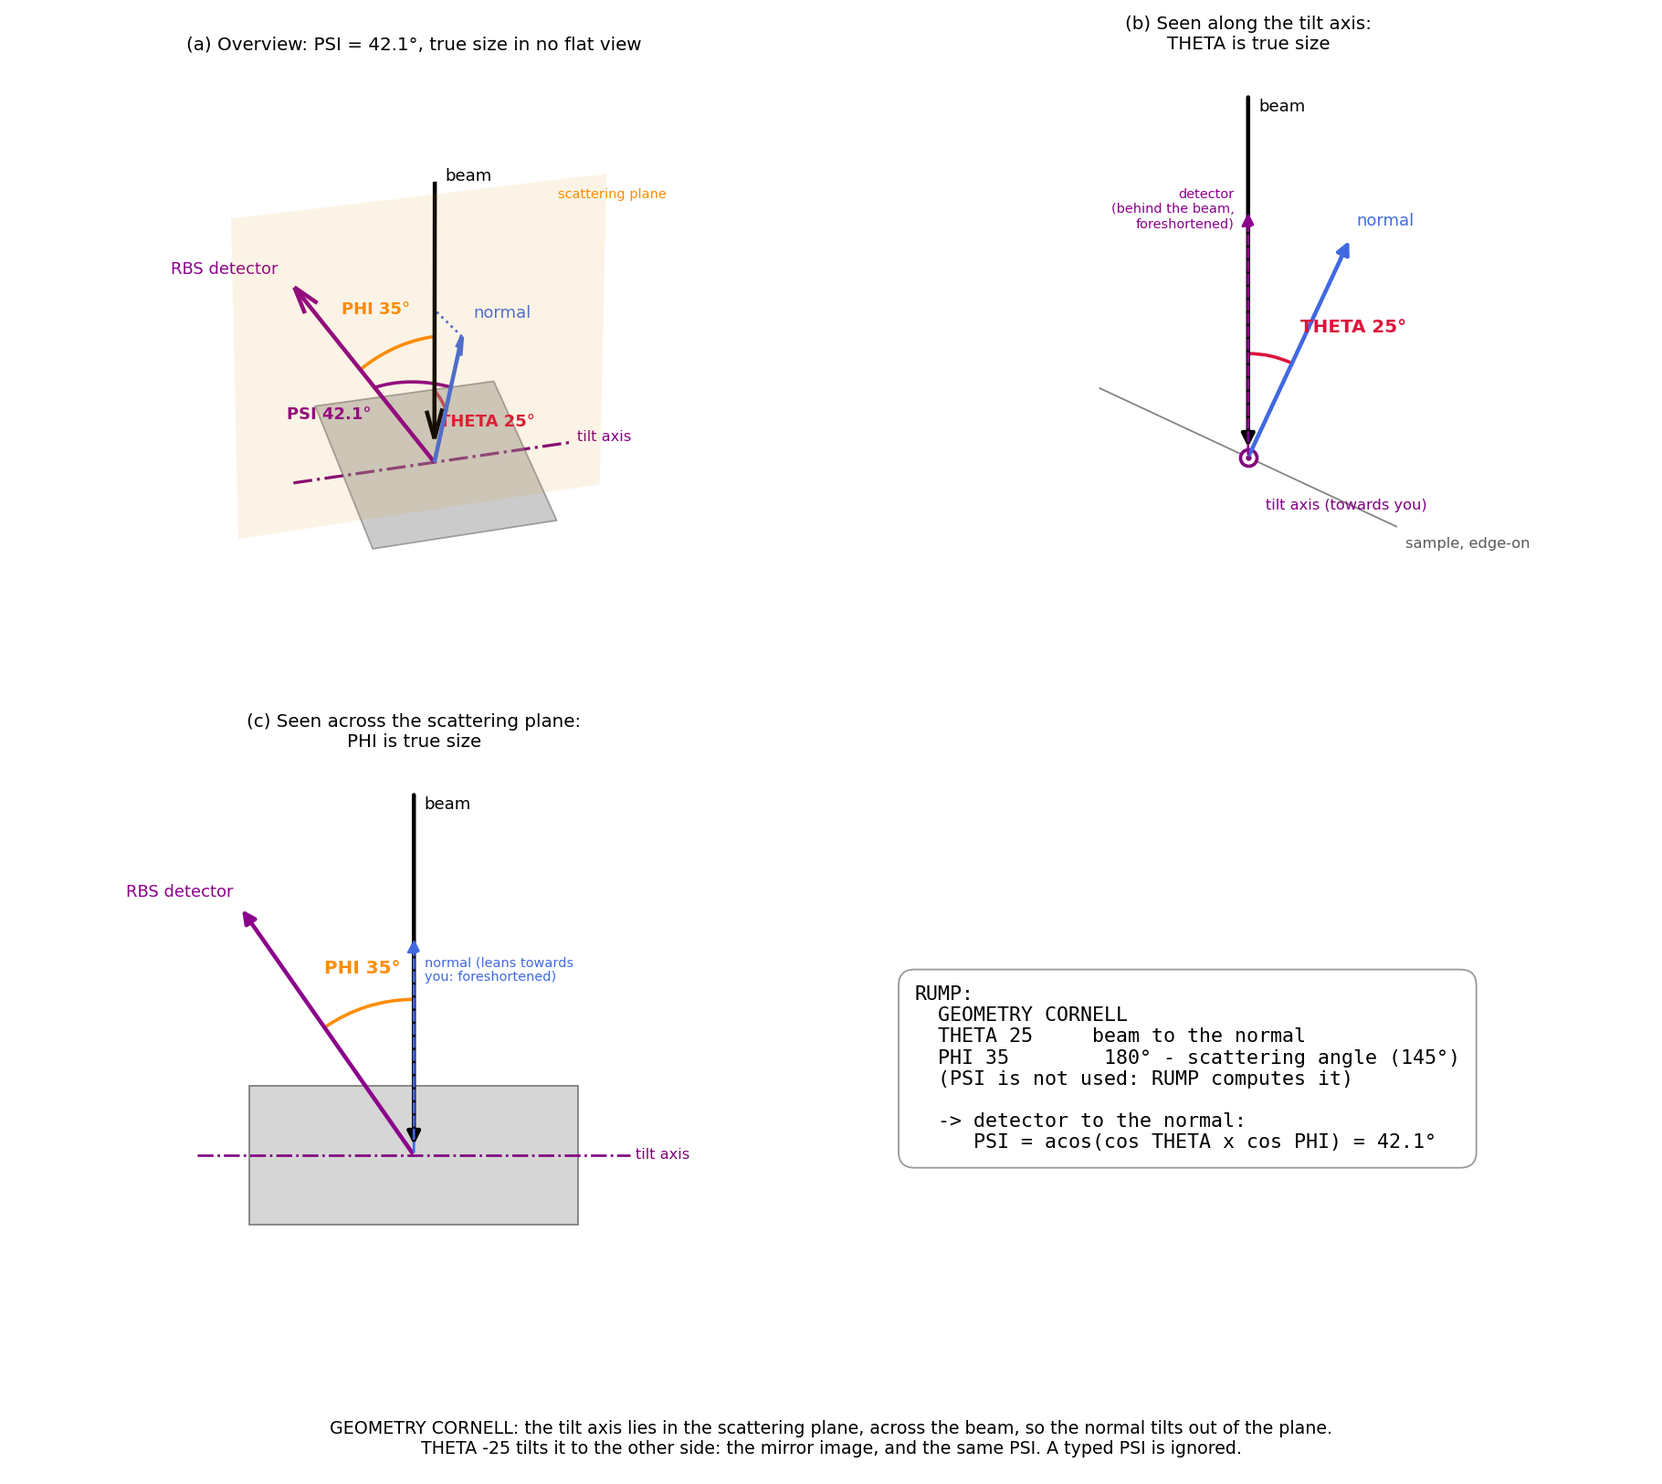
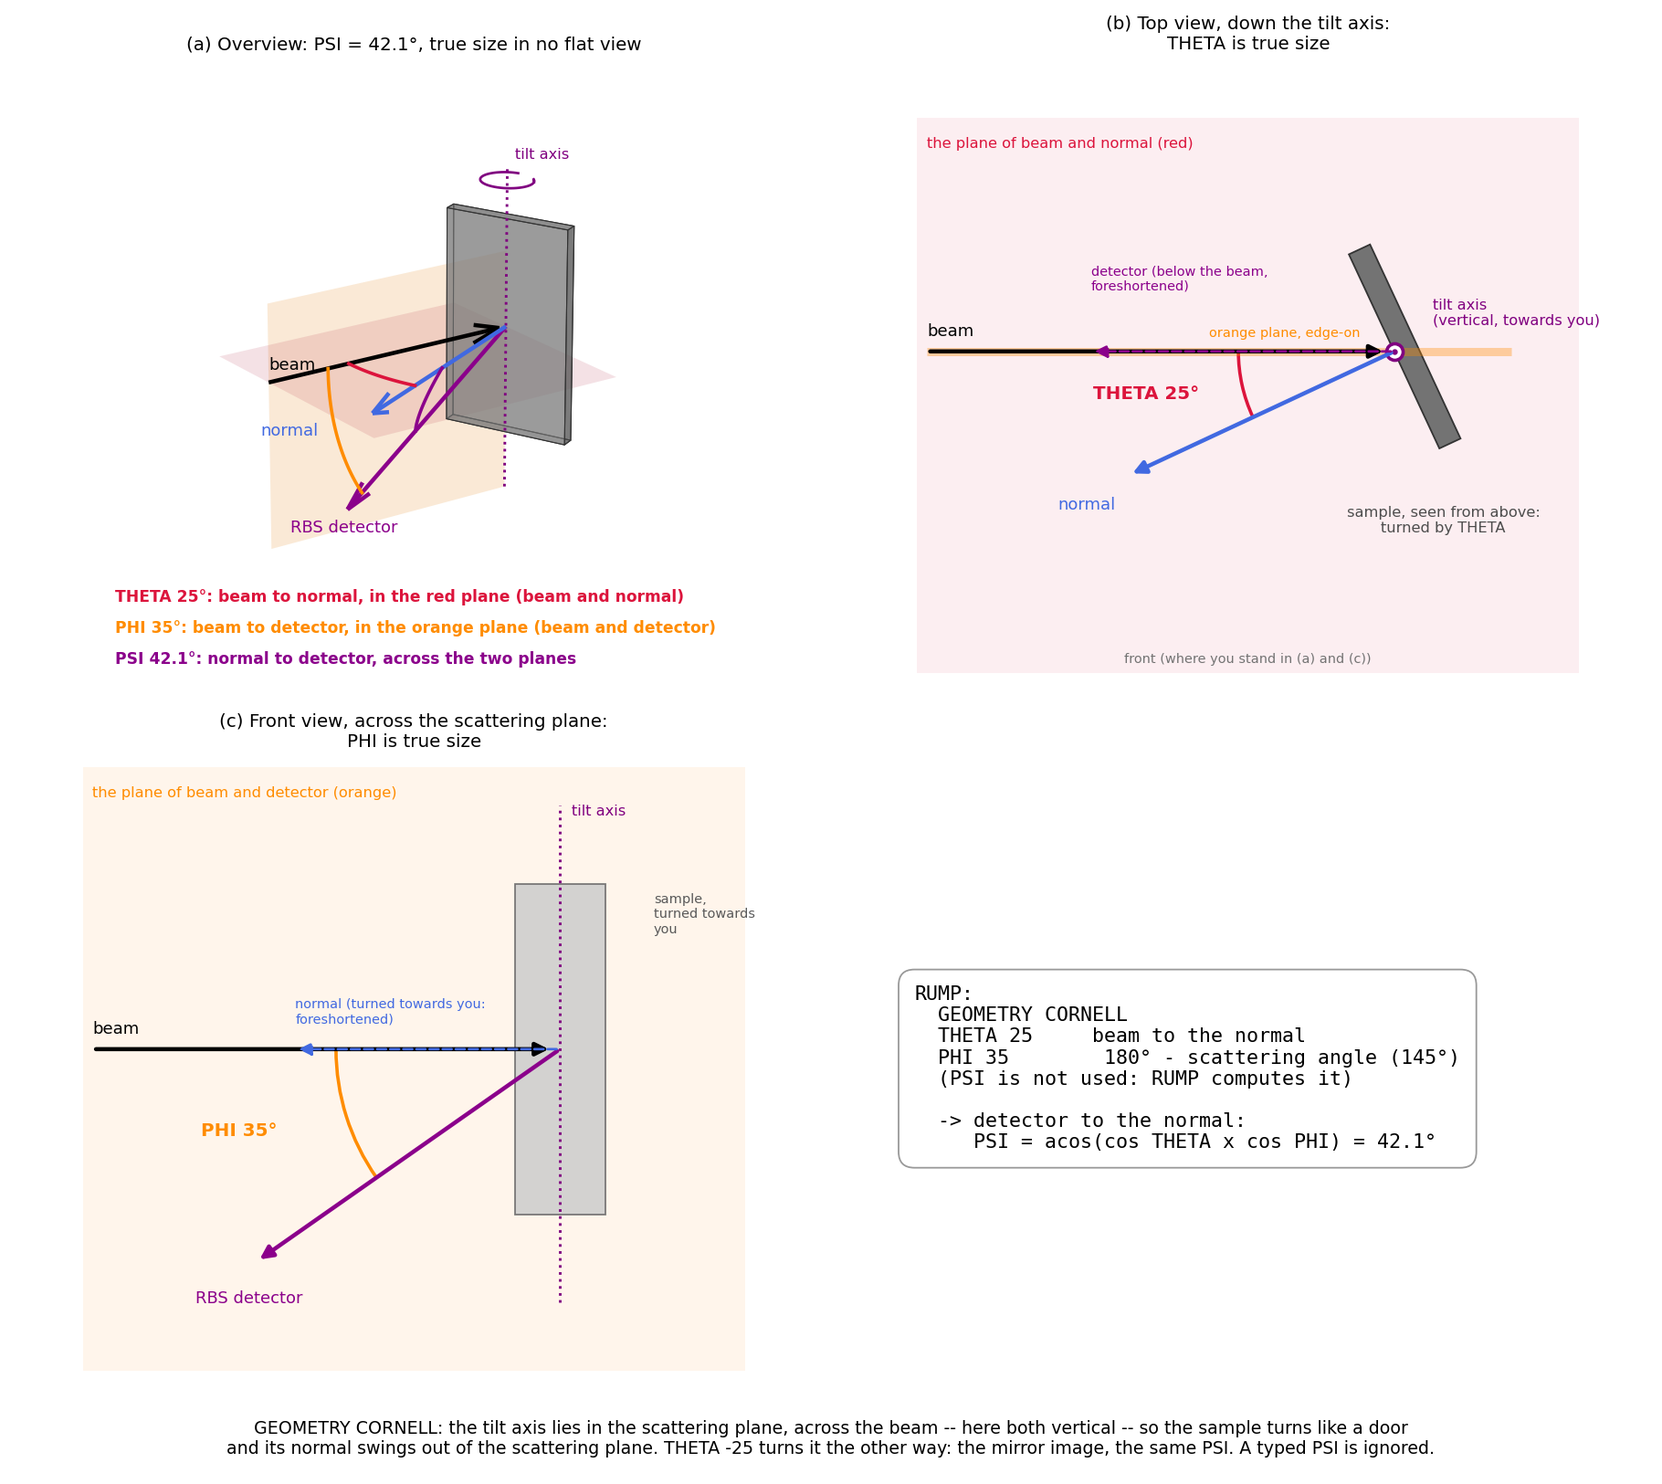
Manual: the Cornell geometry redrawn as in a chamber
The Cornell figure now shows the geometry as one sees it in a chamber:
the beam horizontal, the scattering plane and the tilt axis vertical,
the sample a slab turning about that axis like a door. The 3D overview
colours the plane of beam and normal red (THETA) and the plane of beam
and detector orange (PHI), with PSI across the two and the angles named
in matching captions; the top view, down the tilt axis, shows THETA true
size, the front view PHI; the RUMP commands complete it. The page text
follows the figure.

tools/geometry_figures.py draws the new figure; the old Cornell drawing
and its helpers are gone.

diff --git a/tools/geometry_figures.py b/tools/geometry_figures.py
@@ -7,9 +7,11 @@ writes, into docs/assets/:
 - geometry-ibm.png: GEOMETRY IBM seen along the tilt axis -- beam, detector
   and normal all lie in the scattering plane, so a flat drawing shows every
   angle true.
-- geometry-cornell.png: GEOMETRY CORNELL, whose normal leaves the scattering
-  plane: a 3D overview, the views in which THETA and PHI are true size, and
-  the RUMP commands.
+- geometry-cornell.png: GEOMETRY CORNELL as in a chamber -- beam horizontal,
+  scattering plane and tilt axis vertical, the sample turning like a door: a
+  3D overview with the beam-normal plane (red) and the beam-detector plane
+  (orange), the top view (THETA true size), the front view (PHI true size)
+  and the RUMP commands.
 
 The exit angles in the command boxes are computed by pyRUMP itself
 (``pyrump.model.geometry.Geometry``), so the figures can't drift from the
@@ -175,21 +177,33 @@ def arrow3d(ax, start, vec, color, lw=2.5, ls="-"):
     ax.quiver(*start, *vec, color=color, lw=lw, arrow_length_ratio=0.12, linestyle=ls)
 
 
-def plate(ax, normal, size=0.75):
-    n = unit(normal)
-    u = unit(np.cross(n, [0, 1, 0]) if abs(n[1]) < 0.9 else np.cross(n, [1, 0, 0]))
-    v = np.cross(n, u)
-    corners = [s * u * size + t * v * size for s, t in ((-1, -1), (1, -1), (1, 1), (-1, 1))]
-    ax.add_collection3d(Poly3DCollection([corners], facecolor="0.55", alpha=0.45, edgecolor="0.3"))
+# -- CORNELL: a 3D overview, the top and front views, the commands ------------
+
+def arrow2d(ax, end, color, lw=2.5, ls="-", start=(0, 0)):
+    ax.annotate("", xy=end, xytext=start,
+                arrowprops={"arrowstyle": "-|>", "color": color, "lw": lw, "ls": ls,
+                            "mutation_scale": 16})
 
 
-# -- CORNELL: a 3D overview and two flat views --------------------------------
+def arc2d(ax, a, b, radius, color, label, at, ha="center"):
+    """The short arc between ``a`` and ``b`` (never the way round)."""
+    t1, t2 = (math.degrees(math.atan2(v[1], v[0])) for v in (a, b))
+    if t2 < t1:
+        t1, t2 = t2, t1
+    if t2 - t1 > 180:
+        t1, t2 = t2, t1 + 360
+    ax.add_patch(Arc((0, 0), 2 * radius, 2 * radius, theta1=t1, theta2=t2, color=color, lw=2))
+    ax.text(*at, label, color=color, fontsize=11, fontweight="bold", ha=ha, va="center")
 
-# x: across the beam, in the scattering plane (the tilt axis); y: out of the
-# scattering plane; z: back towards the beam's source.
-S = np.array([0, 0, 1.0])
-D = unit([-math.sin(math.radians(PHI)), 0, math.cos(math.radians(PHI))])
-N = np.array([0, -math.sin(math.radians(THETA)), math.cos(math.radians(THETA))])
+
+# x: the beam's direction of travel (left to right); y: into the page;
+# z: up. The scattering plane is the vertical x-z plane (the page); the
+# tilt axis is z, vertical, in that plane and across the beam.
+t, f = math.radians(THETA), math.radians(PHI)
+S = np.array([-1.0, 0.0, 0.0])                     # back towards the source
+D = np.array([-math.cos(f), 0.0, -math.sin(f)])    # the RBS detector: back and down
+N = np.array([-math.cos(t), -math.sin(t), 0.0])    # turned about z, towards the viewer
+AXIS = np.array([0.0, 0.0, 1.0])
 PSI = angle(N, D)
 
 BLUE, MAGENTA, RED, ORANGE, PURPLE = "royalblue", "darkmagenta", "crimson", "darkorange", "purple"
@@ -202,111 +216,157 @@ def rump_psi():
     return math.degrees(math.acos(1.0 / g.sec_out))
 
 
-# -- flat views ---------------------------------------------------------------
+# -- the overview --------------------------------------------------------------
 
 
-def arrow2d(ax, end, color, lw=2.5, ls="-", start=(0, 0)):
-    ax.annotate("", xy=end, xytext=start,
-                arrowprops={"arrowstyle": "-|>", "color": color, "lw": lw, "ls": ls,
-                            "mutation_scale": 16})
+def slab(ax, normal, half_width=0.55, half_height=0.85, thickness=0.12):
+    """The sample: a plate whose front face, through the origin, faces
+    ``normal``; the material lies behind it."""
+    across = unit(np.cross(AXIS, normal))         # horizontal, in the face
+    front = [a * half_width * across + b * half_height * AXIS
+             for a, b in ((-1, -1), (1, -1), (1, 1), (-1, 1))]
+    back = [c - thickness * normal for c in front]
+    faces = [front, back] + [[front[i], front[(i + 1) % 4], back[(i + 1) % 4], back[i]]
+                             for i in range(4)]
+    shades = ["0.55", "0.35", "0.25", "0.3", "0.45", "0.3"]
+    ax.add_collection3d(Poly3DCollection(faces, facecolors=shades, edgecolor="0.2",
+                                         linewidths=0.6, alpha=0.5, zorder=1))
 
 
-def arc2d(ax, a, b, radius, color, label, at, ha="center"):
-    p1, p2 = (math.degrees(math.atan2(v[1], v[0])) for v in (a, b))
-    t1, t2 = sorted((p1, p2))
-    ax.add_patch(Arc((0, 0), 2 * radius, 2 * radius, theta1=t1, theta2=t2, color=color, lw=2))
-    ax.text(*at, label, color=color, fontsize=11, fontweight="bold", ha=ha, va="center")
+def rotation_mark(ax, height=1.15, radius=0.22):
+    """An ellipse round the top of the tilt axis, with an arrowhead."""
+    a = np.linspace(0.15 * np.pi, 1.85 * np.pi, 60)
+    ring = np.array([radius * np.cos(a), radius * np.sin(a), np.full_like(a, height)])
+    ax.plot(*ring, color=PURPLE, lw=1.5)
+    end, before = ring[:, -1], ring[:, -4]
+    ax.quiver(*before, *(end - before), color=PURPLE, lw=1.5, arrow_length_ratio=1.0)
+
+
+def overview(ax):
+    # Arrows and arcs are always drawn over the sample: matplotlib's own
+    # depth sorting would hide them behind it.
+    ax.computed_zorder = False
+    # The beam-detector plane (the vertical scattering plane, where PHI
+    # lies) and the beam-normal plane (horizontal here, where THETA lies).
+    xs, zs = np.meshgrid([-2.4, 0.0], [-1.3, 0.6])
+    ax.plot_surface(xs, np.zeros_like(xs), zs, color=ORANGE, alpha=0.16, lw=0, zorder=0)
+    xs, ys = np.meshgrid([-2.4, 0.0], [-1.4, 0.7])
+    ax.plot_surface(xs, ys, np.zeros_like(xs), color=RED, alpha=0.12, lw=0, zorder=0)
+
+    slab(ax, N)
+    ax.plot(*np.array([[0, 0, -1.3], [0, 0, 1.25]]).T, color=PURPLE, ls=":", lw=1.6)
+    rotation_mark(ax)
+    ax.text(0.08, 0, 1.3, "tilt axis", color=PURPLE, fontsize=9)
+
+    arrow3d(ax, [-2.4, 0, 0], [2.33, 0, 0], "black")
+    ax.text(-2.4, 0, 0.1, "beam", fontsize=10)
+    arrow3d(ax, [0, 0, 0], 2.0 * D, MAGENTA)
+    ax.text(*(2.05 * D + [0, 0, -0.15]), "RBS detector", color=MAGENTA, fontsize=10,
+            ha="center")
+    length = 0.8 * 2.9
+    arrow3d(ax, [0, 0, 0], length * N, BLUE)
+    ax.text(*(3.1 * N + [-0.15, -0.15, 0.15]), "normal", color=BLUE, fontsize=10, ha="right")
+
+    arc3d(ax, N, S, 0.85 * 2 * 0.95, RED, "")
+    arc3d(ax, S, D, 1.3 * 1.4, ORANGE, "")
+    arc3d(ax, N, D, 1.15, MAGENTA, "")
+    captions = [
+        (RED, f"THETA {THETA:g}°: beam to normal, in the red plane (beam and normal)"),
+        (ORANGE, f"PHI {PHI:g}°: beam to detector, in the orange plane (beam and detector)"),
+        (MAGENTA, f"PSI {PSI:.1f}°: normal to detector, across the two planes"),
+    ]
+    for i, (color, text) in enumerate(captions):
+        ax.text2D(0.02, 0.13 - 0.05 * i, text, transform=ax.transAxes, color=color,
+                  fontsize=9.5, fontweight="bold")
+
+    ax.set_title(f"(a) Overview: PSI = {PSI:.1f}°, true size in no flat view", fontsize=11)
+    ax.set_xlim(-2.8, 0.6)
+    ax.set_ylim(-1.6, 1.0)
+    ax.set_zlim(-1.3, 1.3)
+    ax.set_box_aspect((3.0, 2.5, 2.6))
+    ax.view_init(elev=20, azim=-125)
+    ax.set_axis_off()
+
+
+# -- the flat views -------------------------------------------------------------
 
 
 def flat(ax, title):
     ax.set_title(title, fontsize=11)
-    ax.set_xlim(-1.9, 1.9)
-    ax.set_ylim(-1.3, 2.3)
+    ax.set_xlim(-2.5, 1.0)
+    ax.set_ylim(-1.7, 1.5)
     ax.set_aspect("equal")
     ax.set_axis_off()
 
 
-def sample_outline(ax, project):
-    """The sample plate, projected."""
-    u = np.array([1.0, 0, 0])               # the tilt axis stays in the plate
-    v = np.cross(N, u)
-    corners = [project(a * 0.95 * u + b * 0.95 * v) for a, b in ((-1, -1), (1, -1), (1, 1), (-1, 1))]
-    ax.add_patch(Polygon(corners, closed=True, facecolor="0.8", edgecolor="0.4", alpha=0.8))
+def beam2d(ax):
+    arrow2d(ax, (-0.04, 0.0), "black", start=(-2.4, 0.0))
+    ax.text(-2.4, 0.08, "beam", fontsize=10)
 
 
-def view_along_tilt_axis(ax):
-    """Looking along x: the plane of beam and normal. THETA is true here."""
+def top_view(ax):
+    """Looking down the vertical tilt axis: THETA is true size."""
+    ax.add_patch(Polygon([(-2.45, -1.65), (0.95, -1.65), (0.95, 1.2), (-2.45, 1.2)],
+                         facecolor=RED, alpha=0.07, edgecolor="none"))
+    ax.text(-2.4, 1.1, "the plane of beam and normal (red)", color=RED, fontsize=9, va="top")
+    ax.text(-0.75, -1.6, "front (where you stand in (a) and (c))", color="0.45", fontsize=8,
+            ha="center")
+
     def p(v):
-        return np.array([-v[1], v[2]])     # right = out of the scattering plane
+        return np.array([v[0], v[1]])      # down the page = towards the front
 
-    sample_outline(ax, p)
-    arrow2d(ax, (0, 0.04), "black", start=(0, 2.1))
-    ax.text(0.06, 2.0, "beam", fontsize=10)
-    arrow2d(ax, 1.4 * p(N), BLUE)
-    ax.text(*(1.48 * p(N)), "normal", color=BLUE, fontsize=10)
-    arrow2d(ax, 1.75 * p(D), MAGENTA, lw=1.5, ls="--")
-    ax.text(-0.08, 1.75 * p(D)[1], "detector\n(behind the beam,\nforeshortened)",
-            color=MAGENTA, fontsize=8, ha="right", va="center")
-    arc2d(ax, p(N), p(S), 0.6, RED, f"THETA {THETA:g}°", at=(0.3, 0.75), ha="left")
+    across = unit(np.cross(AXIS, N))
+    edge = [p(a * 0.55 * across + b * 0.12 * -N) for a, b in ((-1, 0), (1, 0), (1, 1), (-1, 1))]
+    ax.add_patch(Polygon(edge, closed=True, facecolor="0.45", edgecolor="0.2"))
+    ax.text(*(p(0.6 * across) + [0.0, -0.25]), "sample, seen from above:\nturned by THETA",
+            color="0.3", fontsize=9, va="top", ha="center")
+    ax.plot([-2.4, 0.6], [0, 0], color=ORANGE, lw=5, alpha=0.35, solid_capstyle="butt")
+    ax.text(-0.95, 0.06, "orange plane, edge-on", color=ORANGE, fontsize=8, va="bottom")
+    beam2d(ax)
+    arrow2d(ax, 1.5 * p(N), BLUE)
+    ax.text(*(1.58 * p(N) + [0, -0.08]), "normal", color=BLUE, fontsize=10, ha="right",
+            va="top")
+    arrow2d(ax, 1.9 * p(D), MAGENTA, lw=1.5, ls="--")
+    ax.text(1.9 * p(D)[0], 0.3, "detector (below the beam,\nforeshortened)",
+            color=MAGENTA, fontsize=8, va="bottom")
+    arc2d(ax, p(N), p(S), 0.8, RED, f"THETA {THETA:g}°", at=(-1.0, -0.22), ha="right")
     ax.plot(0, 0, marker="o", ms=10, mfc="white", mec=PURPLE, mew=2)
     ax.plot(0, 0, marker=".", ms=5, color=PURPLE)
-    ax.text(0.1, -0.3, "tilt axis (towards you)", color=PURPLE, fontsize=9)
-    edge = 0.95 * np.array([N[2], N[1]])
-    ax.text(*(edge + [0.05, -0.12]), "sample, edge-on", color="0.35", fontsize=9, ha="left")
-    flat(ax, "(b) Seen along the tilt axis:\nTHETA is true size")
+    ax.text(0.2, 0.12, "tilt axis\n(vertical, towards you)", color=PURPLE, fontsize=9,
+            va="bottom")
+    flat(ax, "(b) Top view, down the tilt axis:\nTHETA is true size")
 
 
-def view_across_plane(ax):
-    """Looking along y: the scattering plane. PHI is true here."""
+def front_view(ax):
+    """Looking across the vertical scattering plane: PHI is true size."""
+    ax.add_patch(Polygon([(-2.45, -1.65), (0.95, -1.65), (0.95, 1.45), (-2.45, 1.45)],
+                         facecolor=ORANGE, alpha=0.08, edgecolor="none"))
+    ax.text(-2.4, 1.35, "the plane of beam and detector (orange)", color=ORANGE, fontsize=9,
+            va="top")
+
     def p(v):
         return np.array([v[0], v[2]])
 
-    sample_outline(ax, p)
-    arrow2d(ax, (0, 0.04), "black", start=(0, 2.1))
-    ax.text(0.06, 2.0, "beam", fontsize=10)
-    arrow2d(ax, 1.75 * p(D), MAGENTA)
-    ax.text(*(1.82 * p(D)), "RBS detector", color=MAGENTA, fontsize=10, ha="right")
-    arrow2d(ax, 1.4 * p(N), BLUE, lw=1.5, ls="--")
-    ax.text(0.06, 1.4 * p(N)[1] - 0.12, "normal (leans towards\nyou: foreshortened)",
-            color=BLUE, fontsize=8, ha="left", va="top")
-    arc2d(ax, p(S), p(D), 0.9, ORANGE, f"PHI {PHI:g}°", at=(-0.3, 1.08), ha="center")
-    ax.plot([-1.25, 1.25], [0, 0], color=PURPLE, ls="-.", lw=1.5)
-    ax.text(1.28, 0.0, "tilt axis", color=PURPLE, fontsize=9, va="center")
-    flat(ax, "(c) Seen across the scattering plane:\nPHI is true size")
-
-
-# -- the 3D overview -----------------------------------------------------------
-
-
-def overview(ax):
-    xs, zs = np.meshgrid([-1.6, 1.4], [-0.4, 2.2])
-    ax.plot_surface(xs, np.zeros_like(xs), zs, color="orange", alpha=0.10, lw=0)
-    ax.text(1.0, 0, 2.05, "scattering plane", color=ORANGE, fontsize=8)
-    plate(ax, N)
-    arrow3d(ax, [0, 0, 2.3], [0, 0, -2.1], "black")
-    ax.text(0.08, 0, 2.3, "beam", fontsize=10)
-    arrow3d(ax, [0, 0, 0], 1.95 * D, MAGENTA)
-    ax.text(*(2.0 * D + [-0.1, 0, 0.08]), "RBS detector", color=MAGENTA, fontsize=10, ha="right")
-    arrow3d(ax, [0, 0, 0], 1.4 * N, BLUE)
-    ax.text(*(1.5 * N + [0, -0.2, 0.15]), "normal", color=BLUE, fontsize=10)
-    tip = 1.4 * N
-    ax.plot(*np.array([tip, tip * [1, 0, 1]]).T, color=BLUE, ls=":", lw=1.5)
-    ax.plot(*np.array([[-1.15, 0, 0], [1.15, 0, 0]]).T, color=PURPLE, ls="-.", lw=1.8)
-    ax.text(1.2, 0, 0, "tilt axis", color=PURPLE, fontsize=9)
-    arc3d(ax, N, S, 0.6, RED, f"THETA {THETA:g}°", shift=(0.1, -0.75, 0.05))
-    arc3d(ax, S, D, 1.05, ORANGE, f"PHI {PHI:g}°", shift=(-0.15, 0, 0.3))
-    arc3d(ax, N, D, 0.85, MAGENTA, f"PSI {PSI:.1f}°", shift=(-0.55, 0.3, -0.35))
-    ax.set_title(f"(a) Overview: PSI = {PSI:.1f}°, true size in no flat view", fontsize=11)
-    ax.set_xlim(-1.6, 1.4)
-    ax.set_ylim(-1.3, 1.3)
-    ax.set_zlim(-0.6, 2.3)
-    ax.set_box_aspect((3.0, 2.6, 2.9))
-    ax.view_init(elev=22, azim=-110)
-    ax.set_axis_off()
+    across = unit(np.cross(AXIS, N))
+    face = [p(a * 0.55 * across + b * 0.85 * AXIS) for a, b in ((-1, -1), (1, -1), (1, 1), (-1, 1))]
+    ax.add_patch(Polygon(face, closed=True, facecolor="0.8", edgecolor="0.4", alpha=0.85))
+    right = max(c[0] for c in face)
+    ax.text(right + 0.25, 0.8, "sample,\nturned towards\nyou", color="0.35", fontsize=8,
+            va="top")
+    beam2d(ax)
+    arrow2d(ax, 1.9 * p(D), MAGENTA)
+    ax.text(*(1.95 * p(D) + [0, -0.12]), "RBS detector", color=MAGENTA, fontsize=10,
+            ha="center", va="top")
+    arrow2d(ax, 1.5 * p(N), BLUE, lw=1.5, ls="--")
+    ax.text(1.5 * p(N)[0], 0.12, "normal (turned towards you:\nforeshortened)",
+            color=BLUE, fontsize=8, va="bottom")
+    arc2d(ax, p(D), p(S), 1.15, ORANGE, f"PHI {PHI:g}°", at=(-1.45, -0.42), ha="right")
+    ax.plot([0, 0], [-1.3, 1.25], color=PURPLE, ls=":", lw=1.6)
+    ax.text(0.06, 1.2, "tilt axis", color=PURPLE, fontsize=9)
+    flat(ax, "(c) Front view, across the scattering plane:\nPHI is true size")
 
 
 def commands(ax):
-    """The RUMP commands for this geometry, where a fourth view would go."""
     lines = [
         "RUMP:",
         "  GEOMETRY CORNELL",
@@ -326,15 +386,17 @@ def commands(ax):
 def cornell_figure(out):
     fig = plt.figure(figsize=(14, 12.5))
     overview(fig.add_subplot(2, 2, 1, projection="3d"))
-    view_along_tilt_axis(fig.add_subplot(2, 2, 2))
-    view_across_plane(fig.add_subplot(2, 2, 3))
+    top_view(fig.add_subplot(2, 2, 2))
+    front_view(fig.add_subplot(2, 2, 3))
     commands(fig.add_subplot(2, 2, 4))
-    lines = [
-        "GEOMETRY CORNELL: the tilt axis lies in the scattering plane, across the beam, so the normal tilts out "
-        "of the plane.\nTHETA -25 tilts it to the other side: "
-        "the mirror image, and the same PSI. A typed PSI is ignored.",
-    ]
-    fig.text(0.5, 0.02, "\n".join(lines), ha="center", fontsize=10.5)
+    fig.text(
+        0.5, 0.02,
+        "GEOMETRY CORNELL: the tilt axis lies in the scattering plane, across the beam -- here "
+        "both vertical -- so the sample turns like a door\nand its normal swings out of the "
+        "scattering plane. THETA -25 turns it the other way: the mirror image, the same PSI. "
+        "A typed PSI is ignored.",
+        ha="center", fontsize=10.5,
+    )
     fig.subplots_adjust(left=0.01, right=0.99, top=0.96, bottom=0.07, wspace=0.05, hspace=0.12)
     fig.savefig(out, dpi=130)
 

diff --git a/docs/manual/geometry.md b/docs/manual/geometry.md
@@ -50,18 +50,28 @@ needs `GENERAL`.
 
 ### Cornell geometry
 
-The tilt axis lies in the scattering plane, across the beam, so tilting the
-sample moves its normal *out of* that plane. No single flat drawing then
-shows all three angles at their true size: the overview shows them together,
-`THETA` is true seen along the tilt axis, and `PHI` is true seen across the
-scattering plane, where the tilted normal leans towards you:
+The tilt axis lies in the scattering plane, across the beam. In the figure
+both are vertical: the beam comes in horizontally, the detector looks back
+and down, and the sample turns about the vertical axis like a door. Its
+normal therefore swings *out of* the scattering plane, and the three angles
+lie in different planes:
 
-![GEOMETRY CORNELL at THETA 25, PHI 35: (a) a 3D overview with PSI = 42.1 degrees; (b) seen along the tilt axis, THETA 25 degrees true size; (c) seen across the scattering plane, PHI 35 degrees true size; and the RUMP commands](../assets/geometry-cornell.png)
+* `THETA` in the plane of the beam and the normal (red, horizontal here);
+* `PHI` in the plane of the beam and the detector, the scattering plane
+  (orange, vertical);
+* `PSI` across the two, between the normal and the detector.
 
-cos PSI = cos THETA × cos PHI. The sign of `THETA` only says to which side
-of the plane the normal leaves, so `THETA -25` gives the same `PSI` as
-`THETA 25`. `PSI` always lies between the two IBM values for the same
-`THETA` and `PHI` — here 42.1°, between 10° and 60°.
+No single flat drawing shows all three at their true size. The overview (a)
+shows them together; the top view (b), looking down the tilt axis onto the
+red plane, shows `THETA` true; the front view (c), looking onto the orange
+plane, shows `PHI` true:
+
+![GEOMETRY CORNELL at THETA 25, PHI 35, the sample turning about a vertical tilt axis: (a) a 3D overview with the beam-normal plane in red, the beam-detector plane in orange and PSI = 42.1 degrees; (b) the top view, THETA 25 degrees true size; (c) the front view, PHI 35 degrees true size; and the RUMP commands](../assets/geometry-cornell.png)
+
+cos PSI = cos THETA × cos PHI. The sign of `THETA` only says which way the
+sample turns, so `THETA -25` gives the same `PSI` as `THETA 25`. `PSI`
+always lies between the two IBM values for the same `THETA` and `PHI` —
+here 42.1°, between 10° and 60°.
 
 ### Fitting the tilt
 
